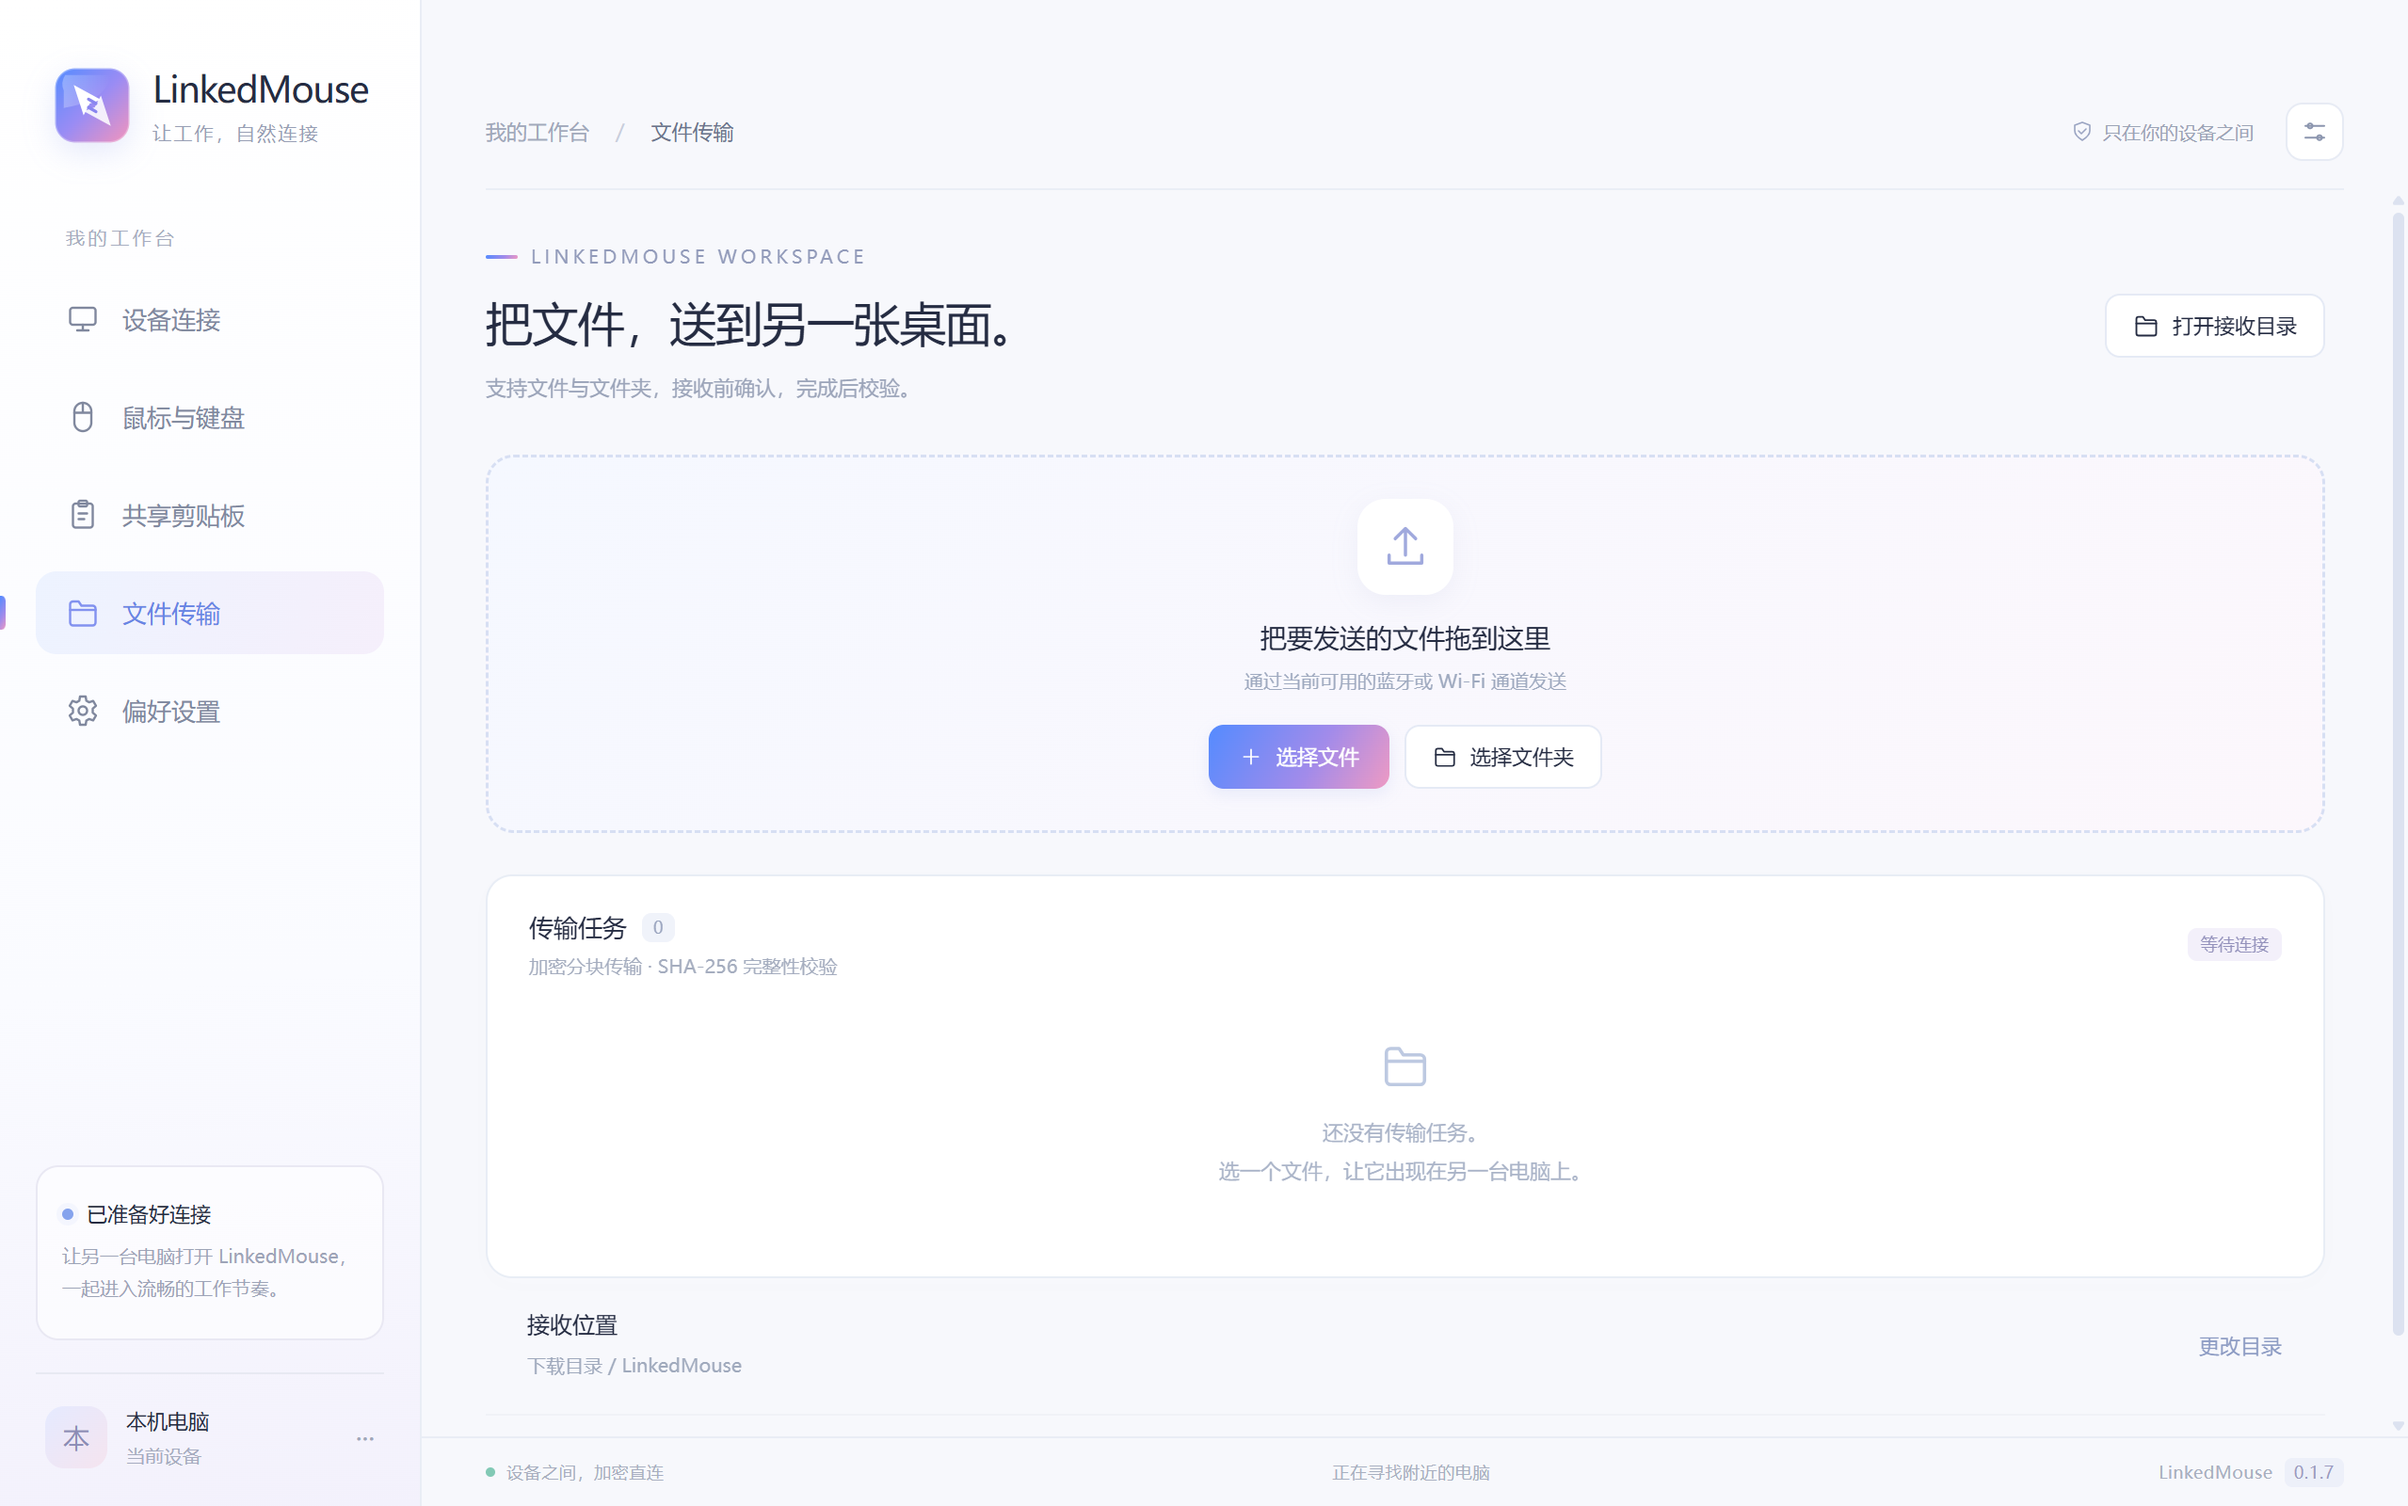
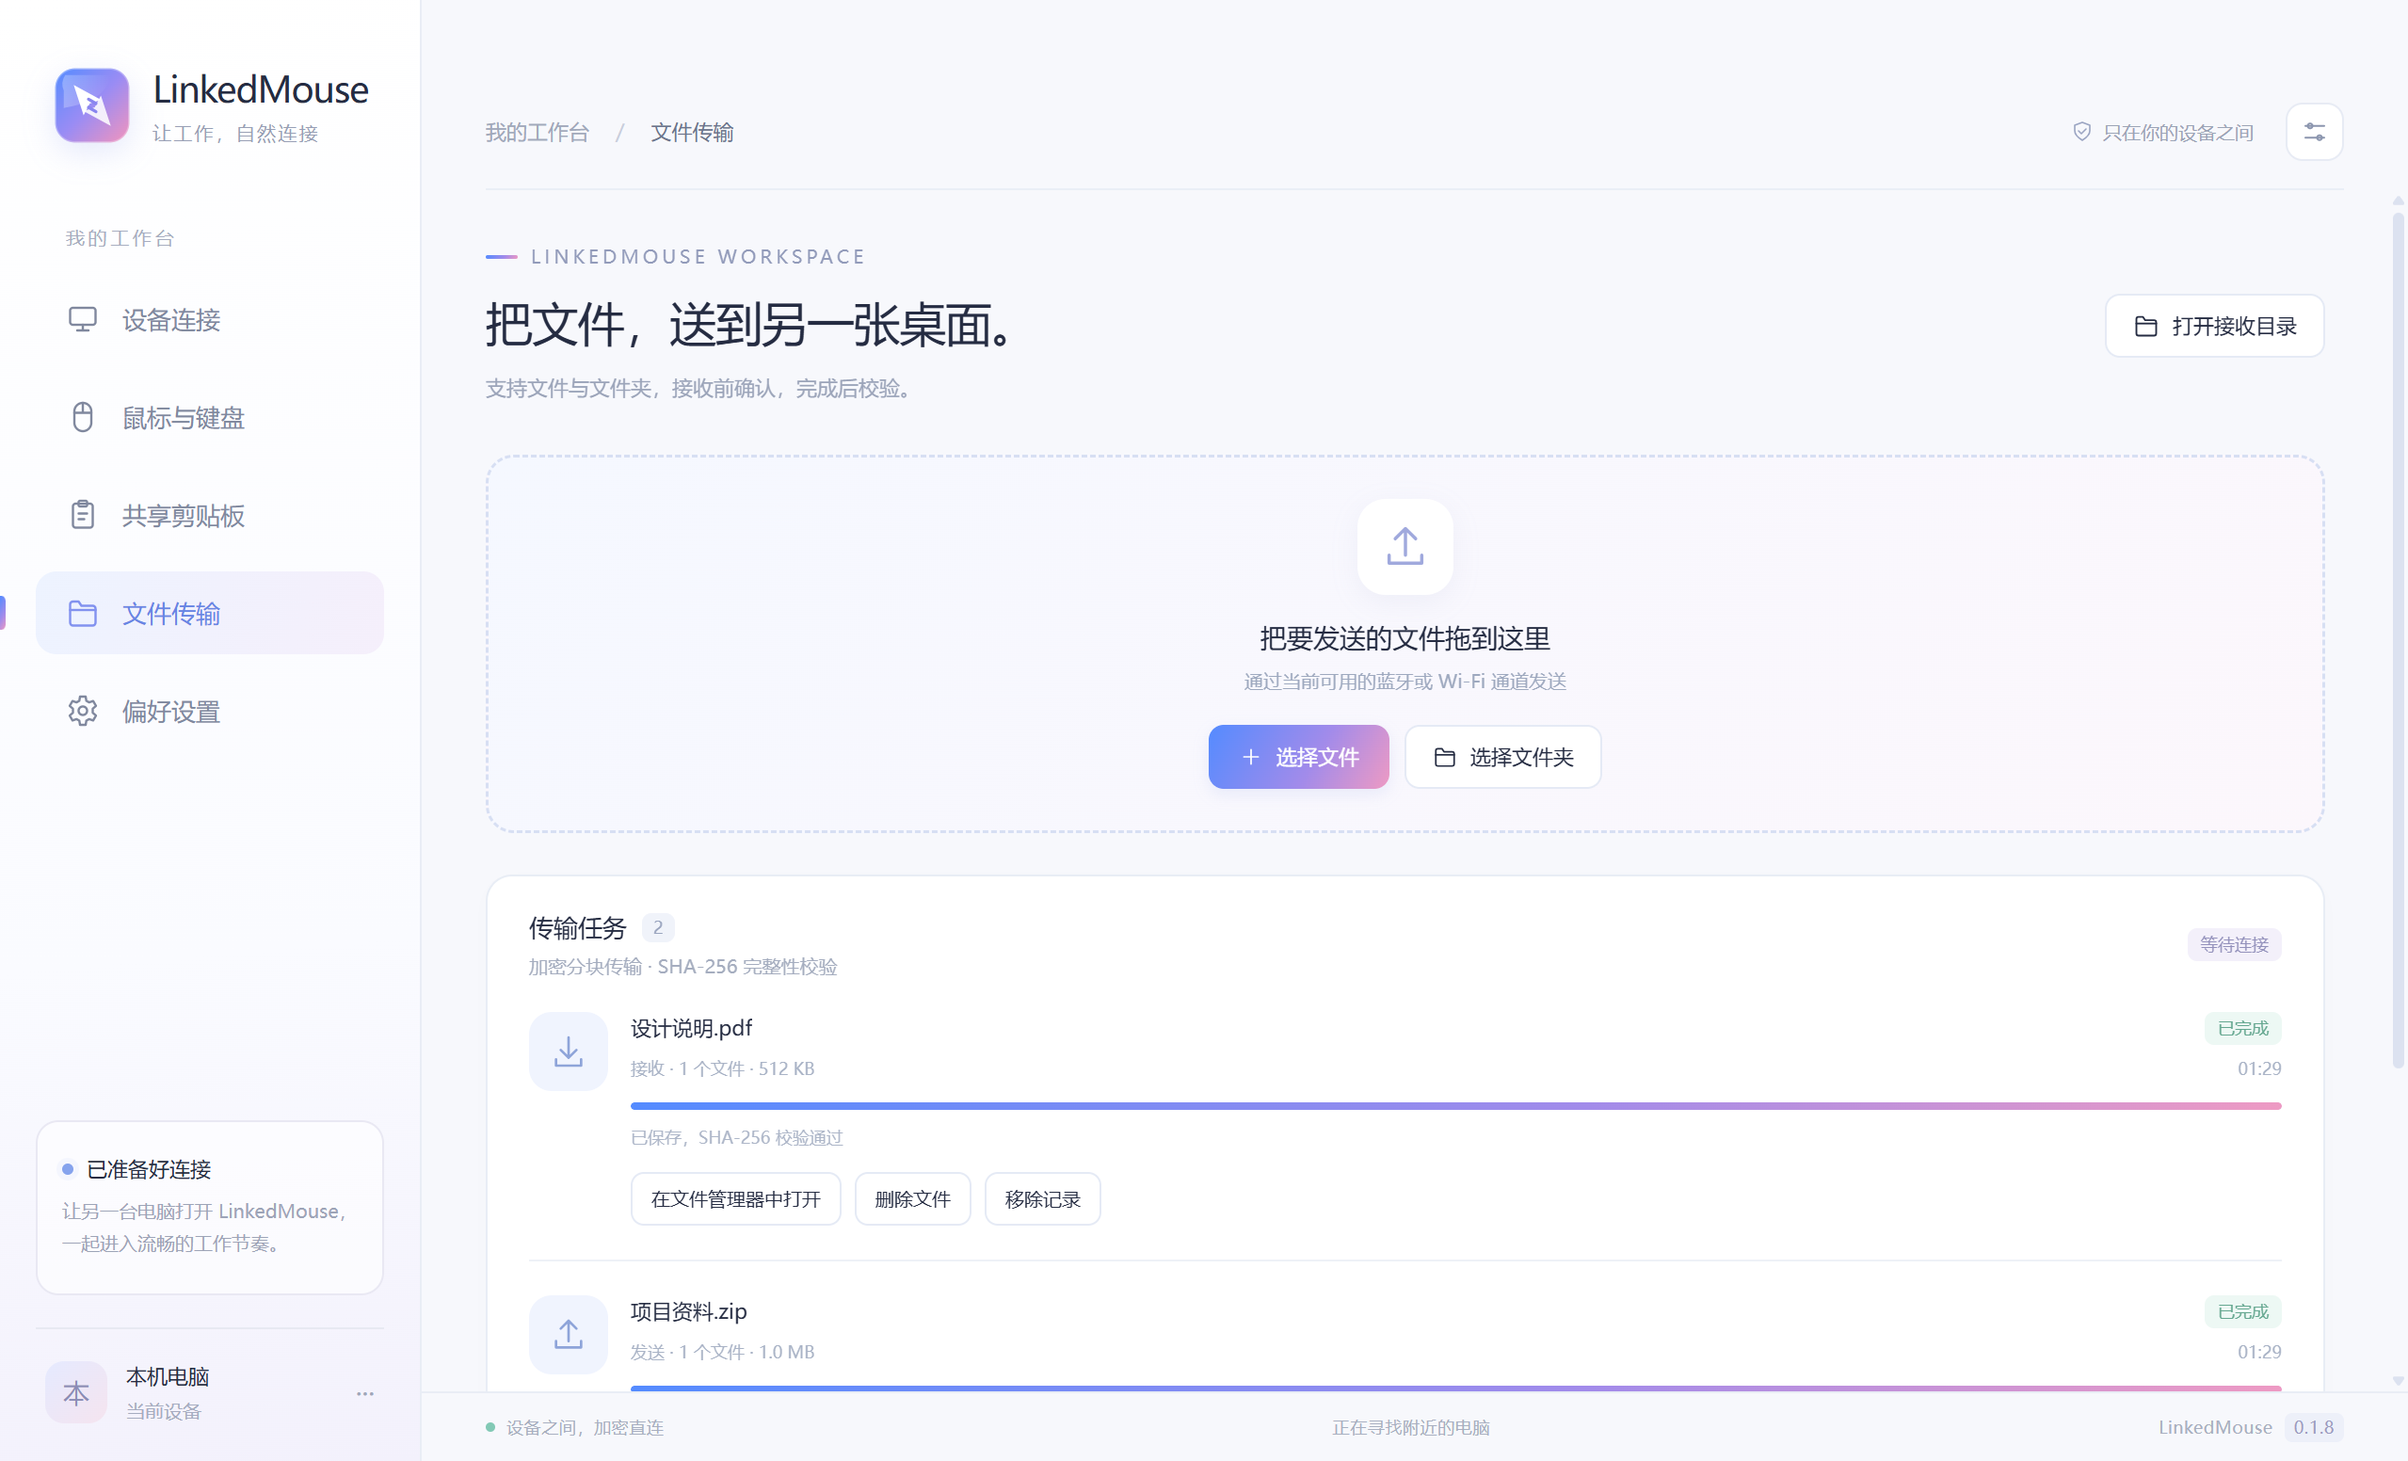
docs: publish v0.1.8 animation, trail and file management updates

diff --git a/docs/VALIDATION.md b/docs/VALIDATION.md
@@ -1,4 +1,31 @@
-# 0.1.7 输入助手、入屏响应与双向提示验证
+# 0.1.8 系统动画、胶囊与文件管理验证
+
+日期：2026-10-29。单台 Windows 11 x64 开发机，200% 缩放。用户已确认另一台电脑缺少动画的原因是关闭了 Windows 动画效果。
+
+## 本版实现与检查
+
+- 安装后调用独立的系统动画初始化入口，读取当前用户的客户端动画设置；关闭时用 `SPI_SETCLIENTAREAANIMATION` 开启并持久化、广播设置变化。已经开启时不调用设置接口、不提示。普通安装在实际改动后提示，静默安装保留提示到首次打开；便携版每个配置目录检查一次，后续用户修改会被保留。
+- 原生隔离测试覆盖原先关闭/开启、仅实际改动触发提示、静默安装待提示、确认后不重播、后来手动关闭、API 失败，以及标记文件写入失败不能隐瞒已发生的系统改动。本机实际入口返回 `already-enabled / changed:false / enabled:true`；没有为测试而关闭本机系统动画。
+- 本机输入接管默认关闭，设置持久化；关闭时，本机键鼠不回收远端控制、不取消预热或拒绝提交。检查覆盖旧协议、预热和校准模式。
+- 主机离屏光晕延后到有效接管确认，并与控制提示同步；1 秒确认延迟下检查起点、旧包及重复确认。预热保持不可见，冷启动闪光计时不延长 1 秒拖尾。
+- 左右/上下布局、两端各自作为输入源的进入和预测返回均产生两端胶囊；普通边缘返回与手动返回也补齐离开端。往返文案按用户要求使用“控制另一电脑中 / 此电脑被控制中”，实际控制权仍按原状态机处理。
+- 胶囊在当前显示器工作区顶部居中；图标按实际布局排列，白点沿真实越界方向播放。真实 Electron 16 种布局/方向/状态采样通过：起点、中间位置和终点均改变，冷启动和重复事件重新播放；6 种提示状态、非激活/穿透、禁用、预览、首帧计时和销毁检查通过。
+- 拖尾使用整条连续曲线、圆润连接与蓝粉渐隐，不再逐段叠加圆头或丢弃快速大跨度线段；轨迹按长度限制绘制面积。稀疏快速移动的沿线像素无空隙，密集/稀疏采样的接缝亮度一致，1 秒显示时长不延长。
+- 文件管理只使用原生任务返回的本地路径。定位收到的实际文件，接收目录后来更改也不会定位到错误目录；确认后移到回收站，重新检查目标和目录重定向，部分失败只确认已完成的项目；发送端原文件保留，移除记录不删除文件。
+
+## 已通过的范围
+
+- 67 组原生自检，20 项 Node 检查。
+- 9 个真实双进程回环场景，包括 TLS/双方配对、文件确认/校验/拒收/重试/同名保护、140 个中文文件、可信重连和诊断隐私；增加本地文件路径/接收目录变化/发送端保护。100 次后台健康请求保持原连接、PID 和注册。
+- 真实 Electron 五页、设置/转义/拖入桥接，以及一次最小化、20 次关闭到托盘。实际点击文件按钮后验证定位调用；真正调用 Windows 回收站移动一个测试收到的文件，记录变为已回收并可移除，发送端文件和核心 PID 保持。
+- 16 个真实原生透明合成场景通过，GDI 计数 24→24；4 个双向控制器实显场景通过，均检测两端可见蓝粉像素和中文通知。另有本机普通权限下 4 个真实显示器边缘检查，使用实际物理坐标而非 viewport 覆盖，并注入 850 ms 确认延迟。
+- 当前版本管理员实显探针的 UAC 被取消，未执行，不记为通过。此前 0.1.7 的管理员输入验证保留为历史记录。
+
+实际故障机上的安装过程、物理双机 BLE 手感、不同显示配置、长期稳定性与 VPN/Wi-Fi Direct 共存仍需实机验收。自动开启的“原先关闭”分支使用隔离系统接口测试，不能当作已在故障电脑完成安装实测。
+
+接口依据：[Windows 系统动画参数](https://learn.microsoft.com/en-us/windows/win32/api/winuser/nf-winuser-systemparametersinfoa)、[Chromium 动画偏好与设置变化缓存](https://chromium.googlesource.com/chromium/src/+/HEAD/ui/gfx/animation/animation.h)、[Electron 文件定位与回收站](https://www.electronjs.org/docs/latest/api/shell)。
+
+## 0.1.7 历史：输入助手、入屏响应与双向提示验证
 
 日期：2026-10-28，单台 Windows 11 x64，实际 DPI 192（200%）。本页记录单机可复现检查；物理双机验收仍见 TESTING.md。
 

diff --git a/docs/TESTING.md b/docs/TESTING.md
@@ -2,6 +2,19 @@
 
 本文件是物理设备联调清单，不代表已经通过。
 
+## 0.1.8 本次重点验收
+
+1. 两端从托盘退出旧版后升级至 0.1.8，核对窗口和原生核心版本；配对可保留。
+2. 在原先关闭 Windows 动画的电脑安装：应开启当前用户的系统动画并出现一次告知；原先开启的电脑安装不提示。静默安装后首次打开再告知，便携版首次运行检查一次。之后手动关闭系统动画，再次普通启动应保留该选择。
+3. 主→副和副→主都观察两端顶部胶囊。确认仅有指定的两句切换文案，白点方向与实际屏幕摆放一致；分别检查左右及上下布局，反复往返不丢提示、不把旧提示播放在新事件之后。
+4. 系统动画开启时，主机离开边缘与接收端进入边缘都有蓝粉光晕；预热不提前显示。快速移动检查连续渐隐拖尾，无明显分段亮节，接管后 1 秒结束。
+5. 本机输入接管默认关闭：对方正在控制时，操作本机鼠标/键盘不结束其控制。打开开关后再验证本机输入接管；显式返回、断线与安全桌面的回收仍有效。
+6. 传入文件和文件夹完成后，点击“在文件管理器中打开”，应定位实际保存的项目；修改接收目录后，旧任务仍定位原位置。同名接收不误选原文件。
+7. 点击“删除文件”先取消，文件应保留；确认后在回收站中核对收到的项目，发送端原文件仍在。记录显示已回收；“移除记录”只移除条目。文件被占用、移动或目录被重定向时应报错，不能处理其他位置。
+8. 在文件传输、窗口最小化和关闭到托盘期间重复跨屏、胶囊和拖尾检查；核对连接、快捷键、修饰键释放。
+
+系统动画变更是当前用户的持久设置；自动检查后的告知应如实显示是否确实更改。
+
 ## 0.1.7 本次重点验收
 
 1. 两端从托盘退出旧版后更新到 0.1.7，核对页脚。允许 UAC，在“鼠标与键盘”确认管理员输入助手已启用；取消后应仍可普通控制，可点“启动输入助手”重试。

diff --git a/CHANGELOG.md b/CHANGELOG.md
@@ -1,5 +1,19 @@
 # 更新记录
 
+## 0.1.8 — 2026-10-29
+
+**两端从托盘退出旧版后升级到 0.1.8。** 配对和个人设置保留。
+
+- 安装时检查当前 Windows 用户的动画效果，关闭时自动开启并提示，已开启则不提示。静默安装的提示留到首次打开；便携版首次运行也检查一次，之后保留用户自行修改的系统设置。
+- “本机输入接管”默认关闭，可在“鼠标与键盘”开启；关闭时，操作接收电脑自己的键鼠不会结束对端控制，也不取消预热或拒绝接管。
+- 进入和返回均在两端显示顶部居中的胶囊。往返仅使用“控制另一电脑中 / 此电脑被控制中”两句，按指针离开或进入方向展示，不改变底层控制权状态。
+- 双屏图标按左右/上下布局排列，白点按实际越界方向移动；窗口显示后才启动动画，重复事件明确重播，提示停留时间从可见帧计时。
+- 主机离屏光晕与接管确认同步，减少慢链路下提前播完的情况；进入/离开光晕继续使用原生透明图层。
+- 拖尾改为整条曲线与连续蓝粉渐隐，避免逐段圆头叠加成亮节；快速稀疏位移保持相连，轨迹长度和绘制面积有界，接管后 1 秒结束。
+- 完成的文件任务增加“在文件管理器中打开”；收到的文件可确认后移到回收站，使用实际保存路径。发送端原文件保留，另提供“移除记录”。
+
+67 组原生、20 项 Node、9 个双进程回环及真实界面检查通过。详情见[验证记录](docs/VALIDATION.md)和[双机验收](docs/TESTING.md)。本机检查不替代物理双机蓝牙与长期运行验收。
+
 ## 0.1.7 — 2026-10-28
 
 **两台电脑都从托盘退出旧版，再启动 0.1.7；在“鼠标与键盘”确认管理员输入助手已启用，并允许 Windows 的 UAC 请求。** 配对和个人设置保留。

diff --git a/THIRD_PARTY_NOTICES.md b/THIRD_PARTY_NOTICES.md
@@ -48,3 +48,7 @@ Electron and its Chromium/Node.js components have their own licenses, which are
 included in the built application's runtime distribution. electron-builder is MIT.
 .NET and Windows SDK projection libraries retain their upstream license notices
 in the published engine distribution.
+
+LinkedMouse 0.1.8 updates the adapted HUD to Chinese state text, physical-layout
+direction, top placement, visible-frame timing and paired return events. The
+continuous joined gradient trail is a new painter change (2026-10-29).
